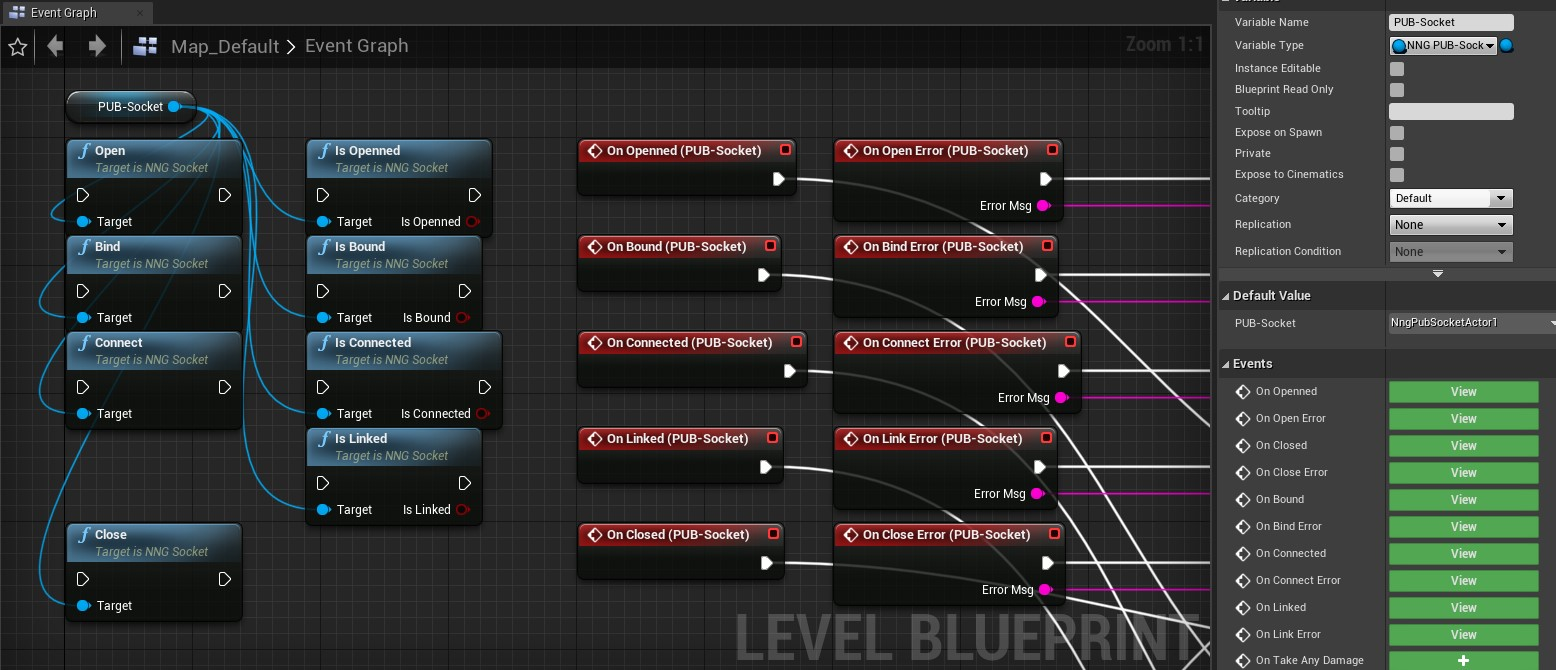
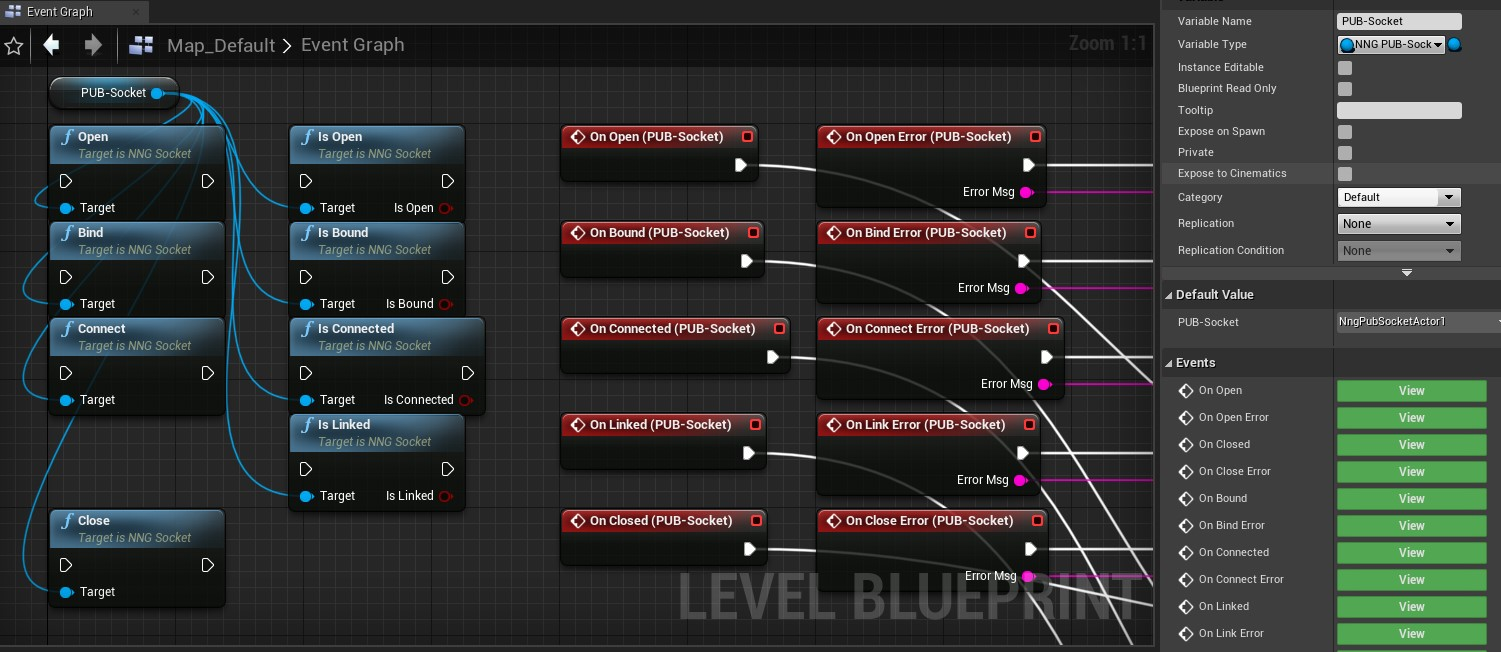
fix: Typo in functions and events (IsOpen, OnOpen)

diff --git a/README.md b/README.md
@@ -2,7 +2,7 @@
 
 Adds Blueprint support for asynchronous messaging with NNG&trade;
 
-Plug-in Version: 1.0.0
+Plugin Version: 1.0.1
 <br>Author: [brugr9](https://www.unrealengine.com/marketplace/profile/brugr9)
 <br>Copyright 2022 Roland Bruggmann aka brugr9. All Rights Reserved.
 
@@ -23,7 +23,7 @@ Features:
 * Publisher Actor-Component with Blueprint callable function node to publish messages with a specified topic;<br>event on message published
 * Subscriber Actor-Component with Blueprint callable function nodes to subscribe or unsubscribe a topic;<br>events on subscribed or on unsubscribed a topic and on received a message
 * PUB-Socket and SUB-Socket Actors with Blueprint callable function nodes to
-  * Open or close the socket; events on opened or on closed and on errors
+  * Open or close the socket; events on open or on closed and on errors
   * Bind an endpoint or connect to an endpoint; events on bound or on connected and on errors
 * TCP and INPROC
 * Custom log category LogNextGenMsg
@@ -81,12 +81,12 @@ Messaging, Integration, M2M, IoT, Network, TCP, INPROC, Socket, PubSub, Runtime
 
 ## 1. Installation
 
-Startup the Unreal Editor, and access the Plugin Editor from the menu 'Edit > Plugins'. In the Plugin Editor, under category 'Messaging' find and enable the plug-in.
+Startup the Unreal Editor, and access the Plugin Editor from the menu 'Edit > Plugins'. In the Plugin Editor, under category 'Messaging' find and enable the plugin.
 
-![Screenshot of Plugin Editor with Plug-in Integration Tool](Docs/ScreenshotPlugin.jpg "Screenshot of Plugin Editor with Plug-in Integration Tool")
-<br>*Fig. 1: Screenshot of Plugin Editor with Plug-in 'Integration Tool'*
+![Screenshot of Plugin Editor with Plugin Integration Tool](Docs/ScreenshotPlugin.jpg "Screenshot of Plugin Editor with Plugin Integration Tool")
+<br>*Fig. 1: Screenshot of Plugin Editor with Plugin 'Integration Tool'*
 
-Finally restart the Unreal Editor. When the plug-in has been loaded successfully, the output log displays a message with the custom log category LogNextGenMsg informing about the library version used:
+Finally restart the Unreal Editor. When the plugin has been loaded successfully, the output log displays a message with the custom log category LogNextGenMsg informing about the library version used:
 
 ```log
 LogNextGenMsg: Using NNG version 1.5.2
@@ -119,19 +119,19 @@ A NNG socket can link an endpoint, more precisely it can bind a local address or
   * Host (`String`), default `127.0.0.1`
   * Port (`Integer`), default `5555`
 * Functions:
-  * `Open`, `IsOpened`
+  * `Open`, `IsOpen`
   * `Bind`, `IsBound` (returns a `Boolean`)
   * `Connect`, `IsConnected` (returns a `Boolean`)
   * `IsLinked` (returns a `Boolean`)
   * `Close`
 * Events (Delegates):
-  * `OnOpened`, `OnOpenError` (returns an error message as `String`)
+  * `OnOpen`, `OnOpenError` (returns an error message as `String`)
   * `OnBound`, `OnBindError` (returns an error message as `String`)
   * `OnConnected`, `OnConnectError` (returns an error message as `String`)
   * `OnLinked`, `OnLinkError` (returns an error message as `String`)
   * `OnClosed`, `OnCloseError` (returns an error message as `String`)
 
-Upon successful `Open` or `Close`, the `OnOpened` or `OnClosed` event is triggered. Upon successful `Bind` or `Connect`, the `OnBound` or `OnConnected` event is triggered, as well as event `OnLinked` in both cases. If one the functions `IsBound` or `IsConnected` returns `true`, also the function `IsLinked` returns `true`.
+Upon successful `Open` or `Close`, the `OnOpen` or `OnClosed` event is triggered. Upon successful `Bind` or `Connect`, the `OnBound` or `OnConnected` event is triggered, as well as event `OnLinked` in both cases. If one the functions `IsBound` or `IsConnected` returns `true`, also the function `IsLinked` returns `true`.
 
 A `NngSocketActor` holds a `NngSocketObject` which acts as a third party library code wrapper where a low level `nng::socket` and its functions are accessed. `NngSocketActor` is an abstract class and is there to be inherited by the messaging pattern specific socket actors that follow now.
 
@@ -153,19 +153,19 @@ A NNG PUB-Socket Actor inherits from abstract class `NngSocketActor`:
   * Host (`String`), default `127.0.0.1`
   * Port (`Integer`), default `5555`
 * Functions:
-  * `Open`, `IsOpened`
+  * `Open`, `IsOpen`
   * `Bind`, `IsBound` (returns a `Boolean`)
   * `Connect`, `IsConnected` (returns a `Boolean`)
   * `IsLinked` (returns a `Boolean`)
   * `Close`
 * Events (Delegates):
-  * `OnOpened`, `OnOpenError` (returns an error message as `String`)
+  * `OnOpen`, `OnOpenError` (returns an error message as `String`)
   * `OnBound`, `OnBindError` (returns an error message as `String`)
   * `OnConnected`, `OnConnectError` (returns an error message as `String`)
   * `OnLinked`, `OnLinkError` (returns an error message as `String`)
   * `OnClosed`, `OnCloseError` (returns an error message as `String`)
 
-Upon successful `Open` or `Close`, the `OnOpened` or `OnClosed` event is triggered. Upon successful `Bind` or `Connect`, the `OnBound` or `OnConnected` event is triggered, as well as event `OnLinked` in both cases. If one the functions `IsBound` or `IsConnected` returns `true`, also the function `IsLinked` returns `true`.
+Upon successful `Open` or `Close`, the `OnOpen` or `OnClosed` event is triggered. Upon successful `Bind` or `Connect`, the `OnBound` or `OnConnected` event is triggered, as well as event `OnLinked` in both cases. If one the functions `IsBound` or `IsConnected` returns `true`, also the function `IsLinked` returns `true`.
 
 <div style='page-break-after: always'></div>
 
@@ -186,19 +186,19 @@ A NNG SUB-Socket Actor inherits from abstract class `NngSocketActor`:
   * Host (`String`), default `127.0.0.1`
   * Port (`Integer`), default `5555`
 * Functions:
-  * `Open`, `IsOpened`
+  * `Open`, `IsOpen`
   * `Bind`, `IsBound` (returns a `Boolean`)
   * `Connect`, `IsConnected` (returns a `Boolean`)
   * `IsLinked` (returns a `Boolean`)
   * `Close`
 * Events (Delegates):
-  * `OnOpened`, `OnOpenError` (returns an error message as `String`)
+  * `OnOpen`, `OnOpenError` (returns an error message as `String`)
   * `OnBound`, `OnBindError` (returns an error message as `String`)
   * `OnConnected`, `OnConnectError` (returns an error message as `String`)
   * `OnLinked`, `OnLinkError` (returns an error message as `String`)
   * `OnClosed`, `OnCloseError` (returns an error message as `String`)
 
-Upon successful `Open` or `Close`, the `OnOpened` or `OnClosed` event is triggered. Upon successful `Bind` or `Connect`, the `OnBound` or `OnConnected` event is triggered, as well as event `OnLinked` in both cases. If one the functions `IsBound` or `IsConnected` returns `true`, also the function `IsLinked` returns `true`. In addition a NNG SUB-Socket Actor has a Blueprint-callable function `Receive` to trigger a message pickup.
+Upon successful `Open` or `Close`, the `OnOpen` or `OnClosed` event is triggered. Upon successful `Bind` or `Connect`, the `OnBound` or `OnConnected` event is triggered, as well as event `OnLinked` in both cases. If one the functions `IsBound` or `IsConnected` returns `true`, also the function `IsLinked` returns `true`. In addition a NNG SUB-Socket Actor has a Blueprint-callable function `Receive` to trigger a message pickup.
 
 <div style='page-break-after: always'></div>
 
@@ -258,17 +258,17 @@ A NNG Subscriber Actor-Component has:
 
 ## 3. Demo
 
-The plug-in folder 'Demo' provides with three Blueprints BP_CubeCyan, BP_CubeYellow and BP_CubeGreen as well as with a map Map_PubSub_Demo.
+The plugin folder 'Demo' provides with three Blueprints BP_CubeCyan, BP_CubeYellow and BP_CubeGreen as well as with a map Map_PubSub_Demo.
 
-![Screenshot of Plug-in Content](Docs/ScreenshotPluginContent.jpg "Screenshot of Plug-in Content")
+![Screenshot of Plugin Content](Docs/ScreenshotPluginContent.jpg "Screenshot of Plugin Content")
 <br>*Fig. 3.1: Screenshot of Content Browser with 'Integration Tool' Content*
 
 The demo implements a PubSub-scheme as follows:
 
-* Two Publisher Actor-Components publish via a PUB-Socket Actor instance
-* The PUB-Socket Actor instance binds to tcp://127.0.0.1:5555
-* A SUB-Socket Actor instance connects tcp://127.0.0.1:5555
+* A PUB-Socket Actor instance binds address `tcp://127.0.0.1:5555`
+* A SUB-Socket Actor instance connects address `tcp://127.0.0.1:5555`
 * Two Subscriber Actor-Components subscribe via the SUB-Socket Actor instance
+* Two Publisher Actor-Components publish via the PUB-Socket Actor instance
 
 ![Demo PubSub-Scheme](Docs/Demo-PubSub.jpg "Demo PubSub-Scheme")
 <br>*Fig. 3.2: Demo PubSub-Scheme*

diff --git a/ThirdParty.md b/ThirdParty.md
@@ -16,7 +16,7 @@ Plug-in Version: 1.0.0
 
 ## 1. nng
 
-This plug-in makes use of *NNG™ Next generation of nanomsg™* software (MIT License).
+This plug-in makes use of *NNG&trade; Next generation of nanomsg&trade;* software (MIT License).
 
 [![License: MIT](https://img.shields.io/badge/License-MIT-yellow.svg)](https://opensource.org/licenses/MIT)
 
@@ -44,6 +44,8 @@ THE AUTHORS OR COPYRIGHT HOLDERS BE LIABLE FOR ANY CLAIM, DAMAGES OR OTHER
 LIABILITY, WHETHER IN AN ACTION OF CONTRACT, TORT OR OTHERWISE, ARISING
 FROM, OUT OF OR IN CONNECTION WITH THE SOFTWARE OR THE USE OR OTHER DEALINGS
 IN THE SOFTWARE.
+
+<div style='page-break-after: always'></div>
 
 ## 2. nngpp
 
@@ -77,5 +79,5 @@ IN THE SOFTWARE.
 
 ## A. References
 
-* Official NNG™ Next generation of nanomsg™ software Homepage: [https://nng.nanomsg.org](https://nng.nanomsg.org)
+* Official NNG&trade; Next generation of nanomsg&trade; software Homepage: [https://nng.nanomsg.org](https://nng.nanomsg.org)
 * Trademark Policy: [https://nanomsg.org/trademarks.html](https://nanomsg.org/trademarks.html)

diff --git a/CHANGELOG.md b/CHANGELOG.md
@@ -3,6 +3,14 @@
 Author: [brugr9](https://www.unrealengine.com/marketplace/profile/brugr9)
 <br>Copyright 2022 Roland Bruggmann aka brugr9. All Rights Reserved.
 
+## Release v1.0.1
+
+* fix: Typo in functions and events (IsOpen, OnOpen)
+* fix: Marketplace URL
+* fix: Fix up redirectors in content folder
+* fix: Third party code annotation
+* doc: Update README.md
+
 ## Release v1.0.0
 
 * feat: Module NextGenMsgEditor
